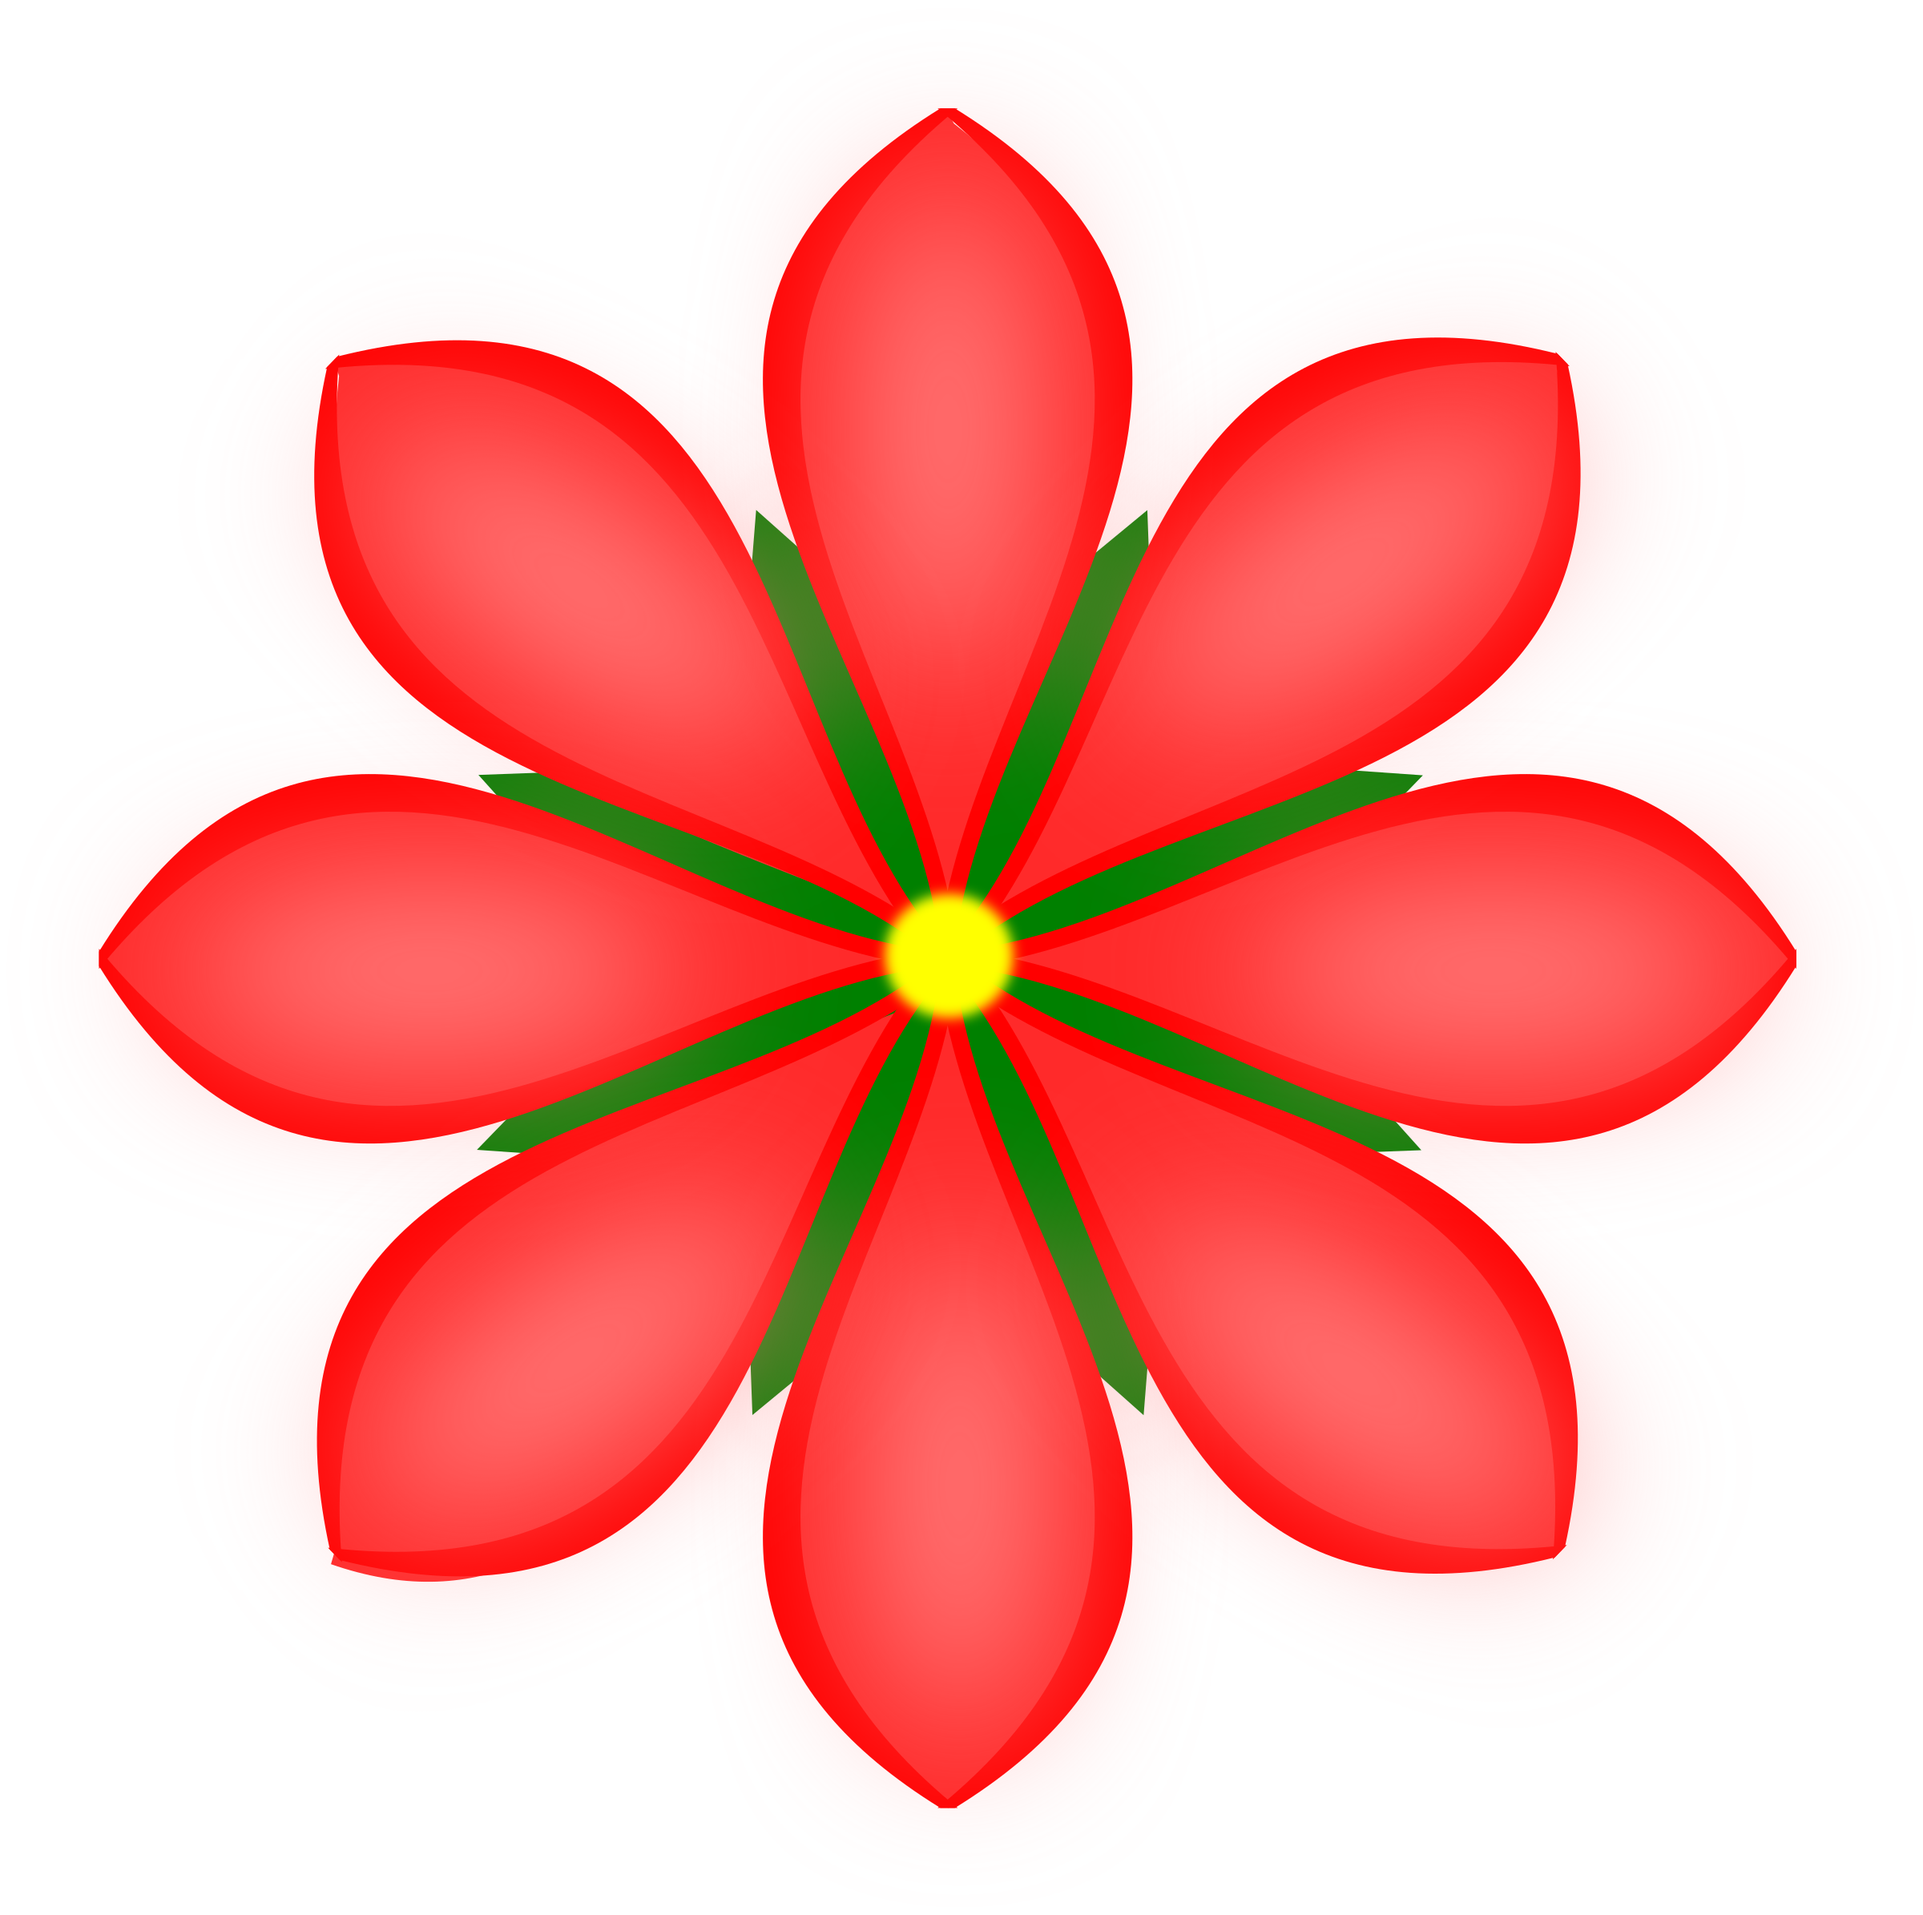
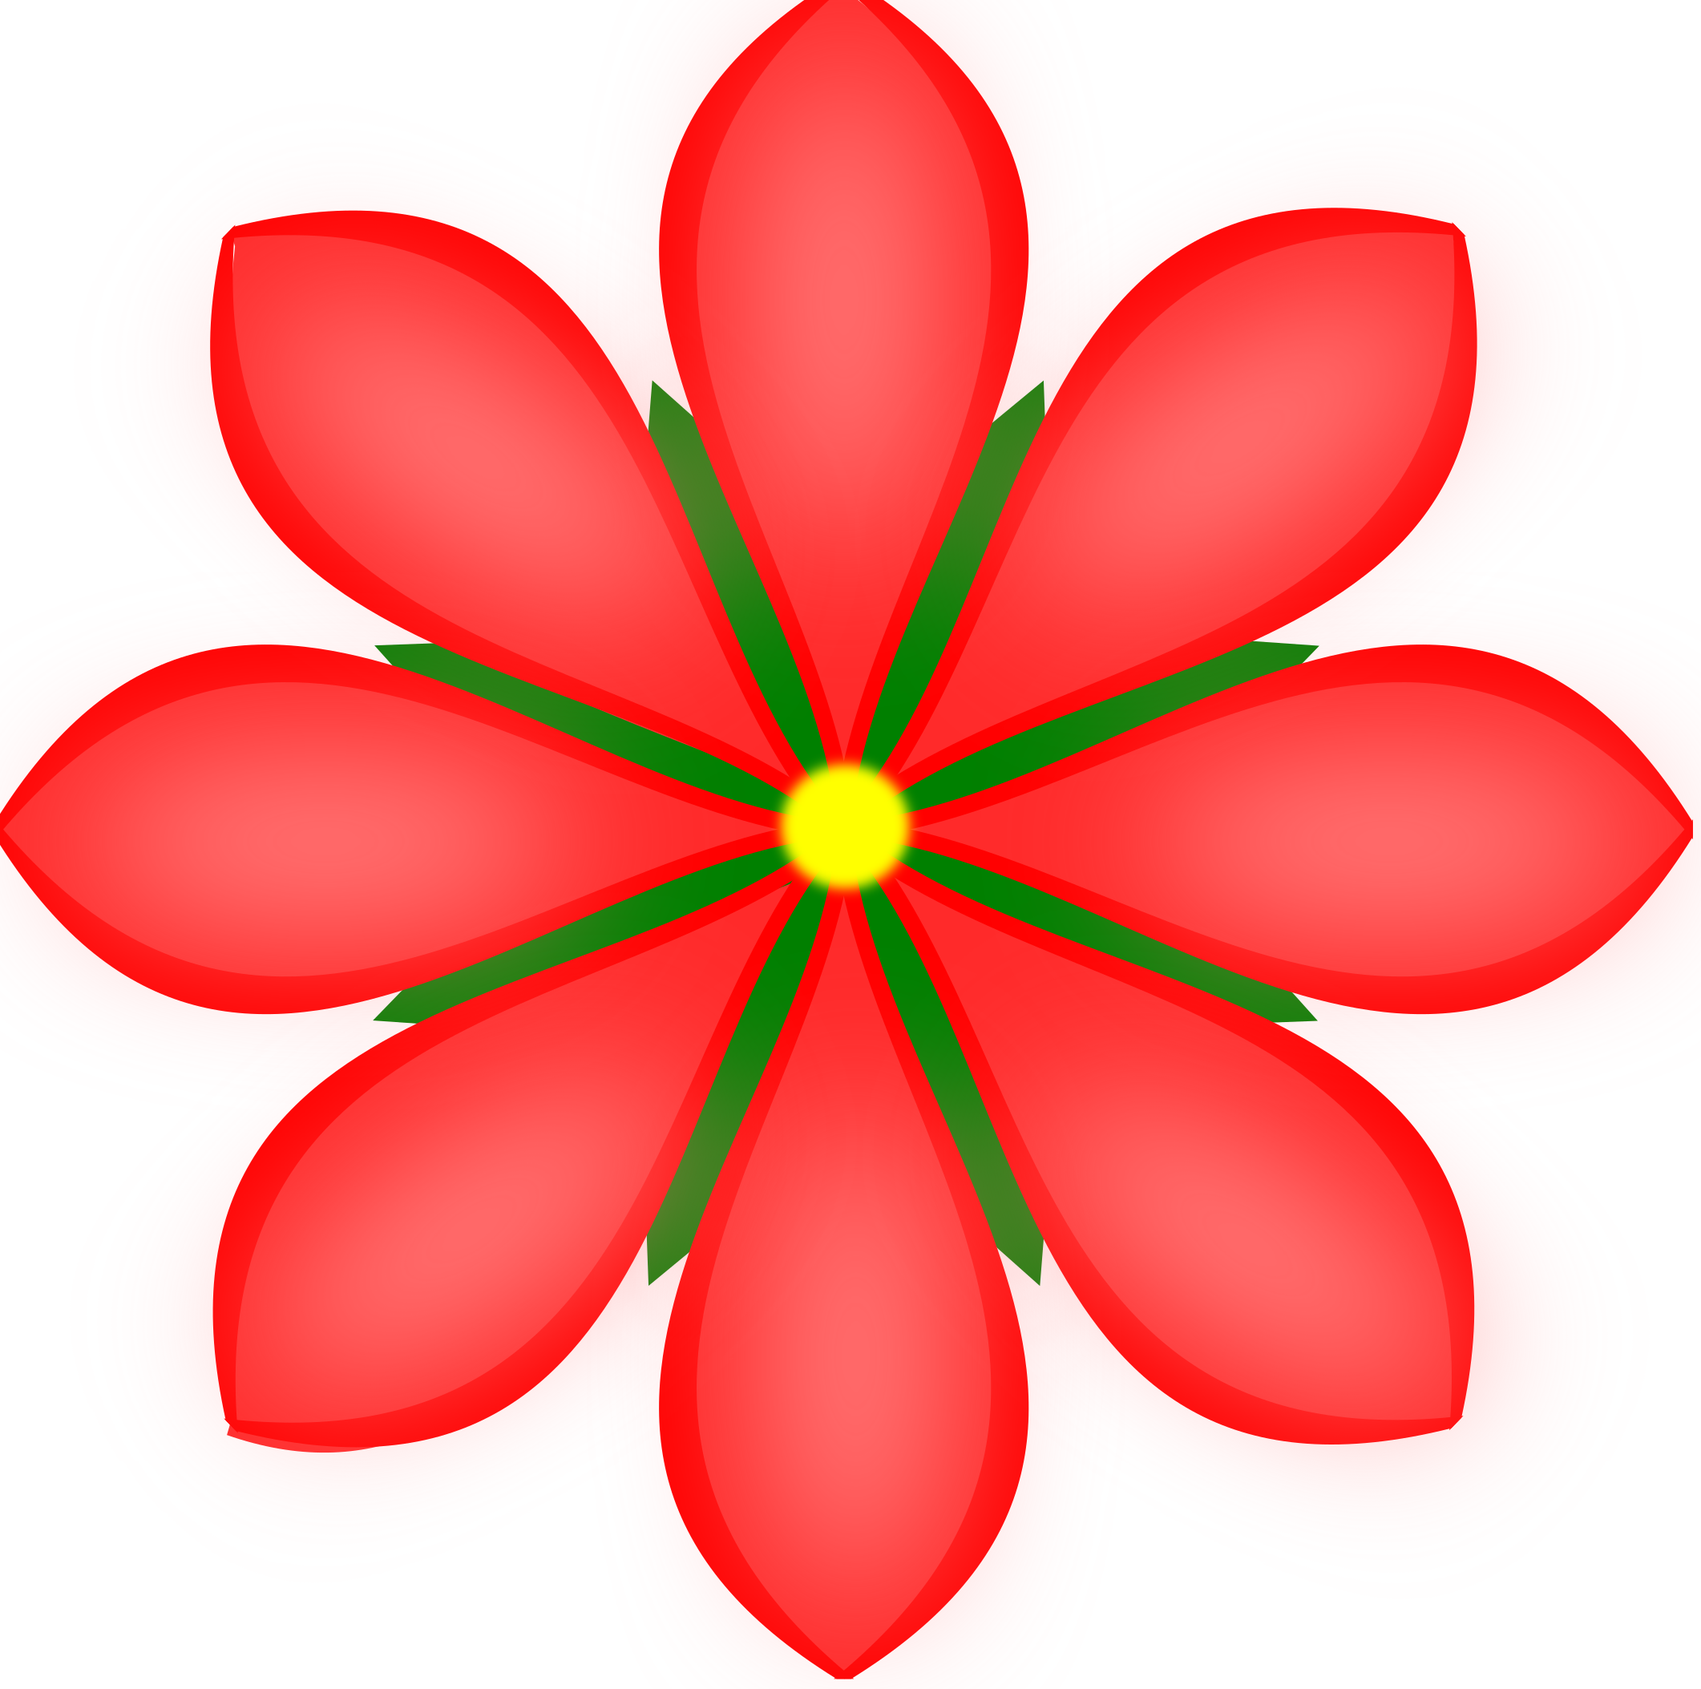
added image/background css. vscode commit

Changed region(s): [[0.0, 0.0, 0.9953, 1.0], [0.4043, 0.5861, 0.4665, 0.6787], [0.5287, 0.3085, 0.591, 0.3702]]

diff --git a/Engagements/BackgroundImage/style.css b/Engagements/BackgroundImage/style.css
@@ -1,0 +1,28 @@
+/*Editing a photo in css*/
+.pipeline{
+    width: 250px;
+}
+
+body{/*For background image and color, you can decide where to put it with the selector*/
+    font-family: Arial, Helvetica, sans-serif;
+    background: url('bluebg.jpg') no-repeat blue;/*Shortcut property for the above*/
+    color: aliceblue;
+}
+
+main{
+    background: url('redFlowerSmall.png') no-repeat center;    
+}
+
+.other{
+    background-image:url('bluebg.jpg'); /*Getting an image as a background*/
+    background-color: blue;
+    background-repeat:no-repeat;/*Stops the background from repeating across the whole page*/
+    color: aliceblue;
+}
+
+.moreother{
+    background-image: url(redFlowerSmall.png);
+    background-repeat: no-repeat;
+    background-position: center;
+}
+

diff --git a/Engagements/BackgroundImage/index.html b/Engagements/BackgroundImage/index.html
@@ -4,18 +4,23 @@
     <meta charset="UTF-8">
     <meta name="viewport" content="width=device-width, initial-scale=1.0">
     <title>Background Images</title>
+    <link rel="stylesheet" href="style.css">
 </head>
 <body>
-    <header></header>
+    <header>
+        <h1>Background Pract</h1>
+    </header>
     <nav>linklinklink</nav>
     <main>
         <h1>Background Images</h1>
         <p>some text here</p>
         <ul>
-            <li></li>
-            <li></li>
-            <li></li>
+            <li>Pipeline</li>
+            <li>Banzai Bowl</li>
+            <li>Sandy's</li>
+            <li>Aweoweo</li>
         </ul>
+        <img class="pipeline" src="pipeline.jpg" alt="Image of Pipeline">
     </main>
     <footer>&copy; 2026 Enoch</footer>
 </body>
